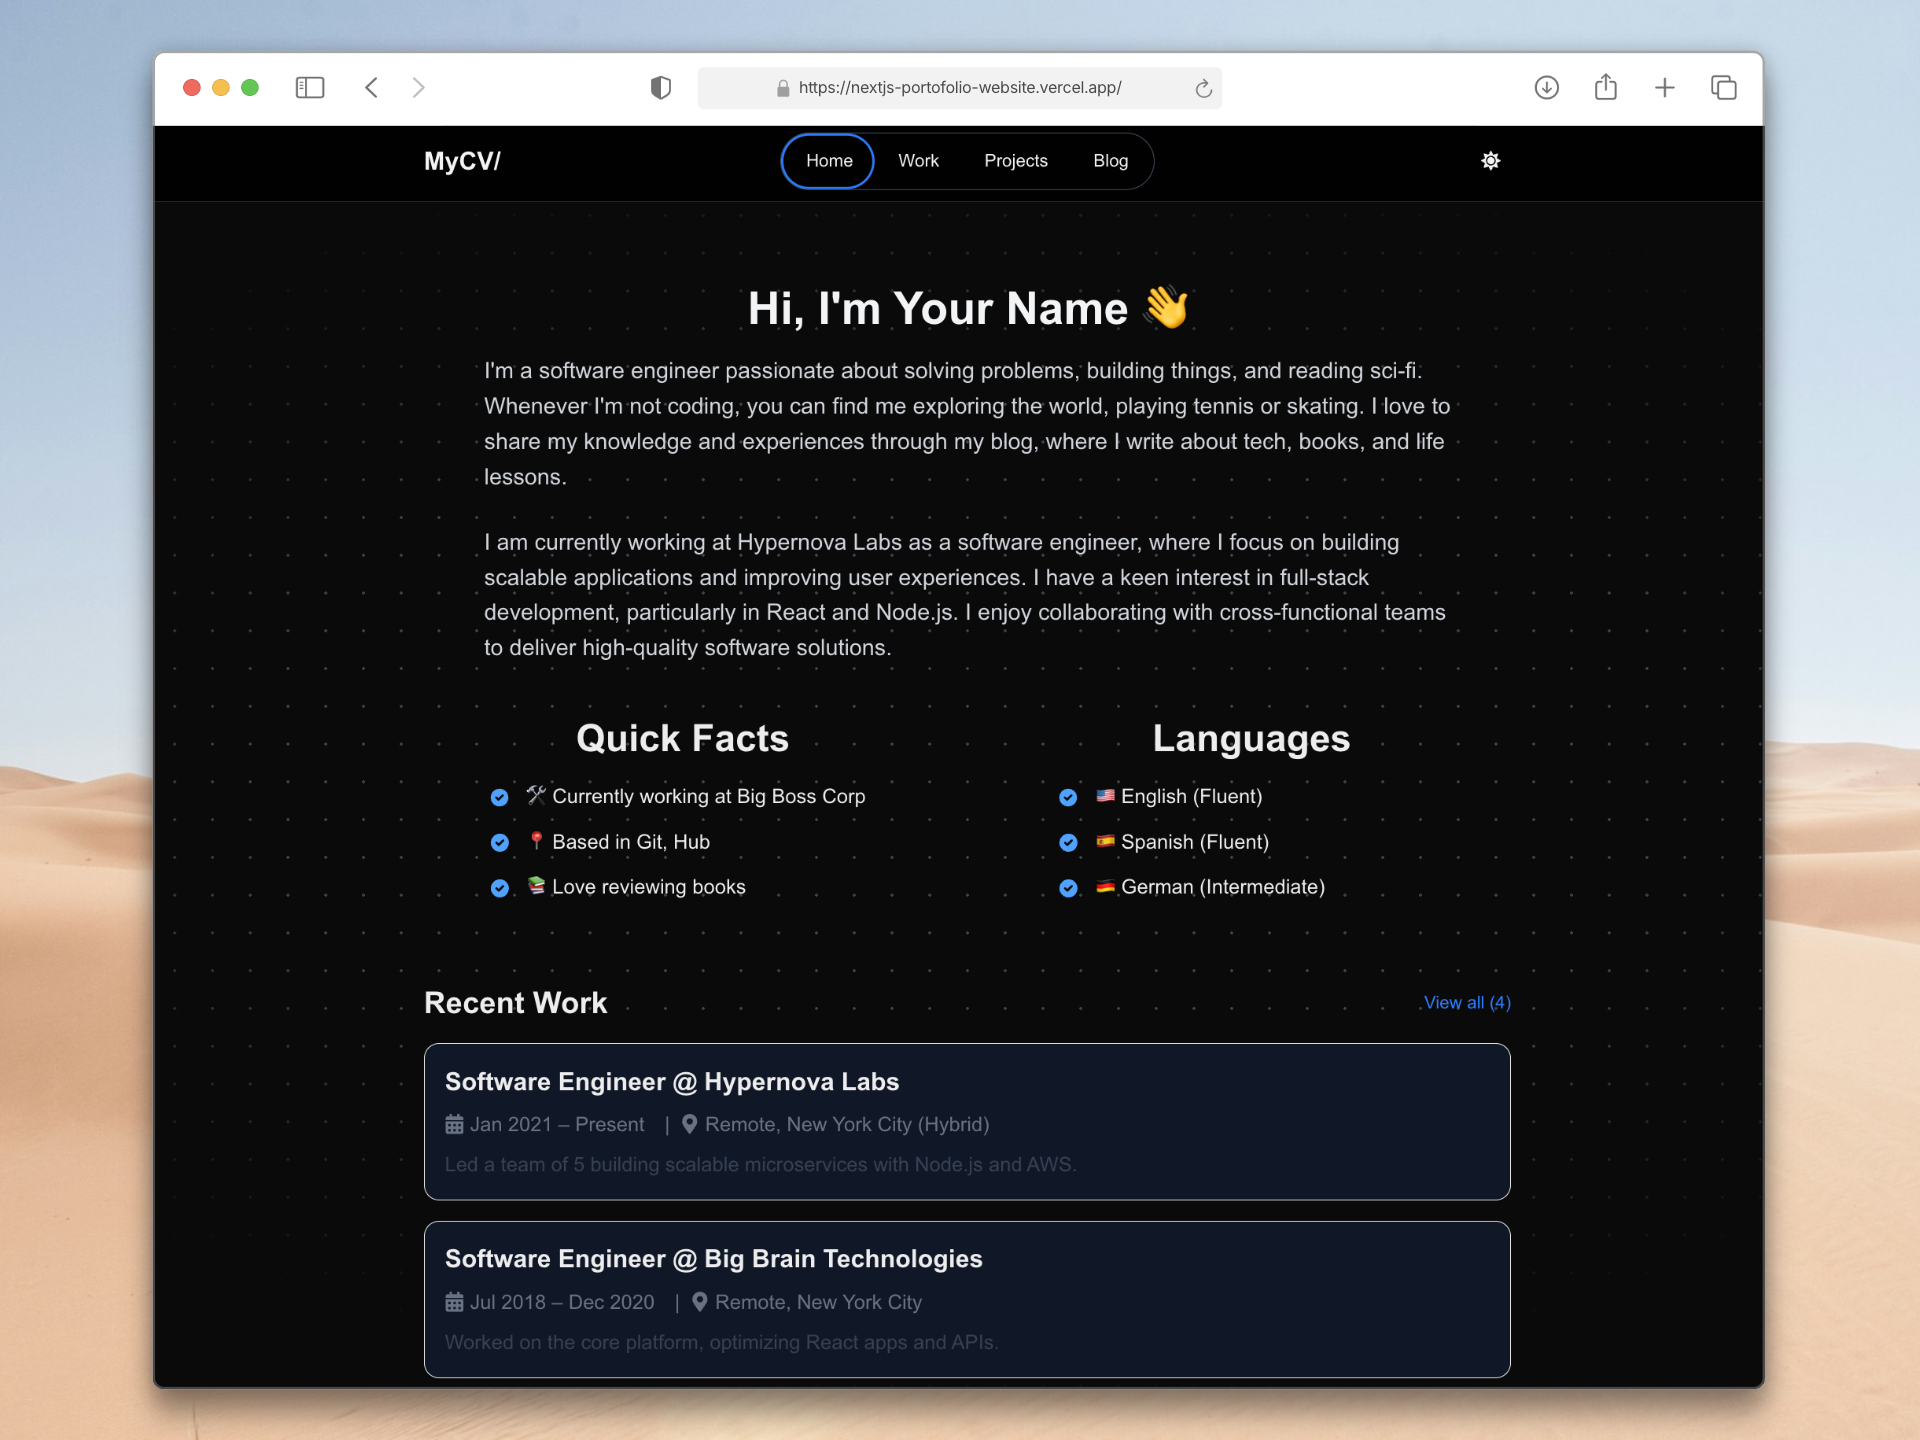
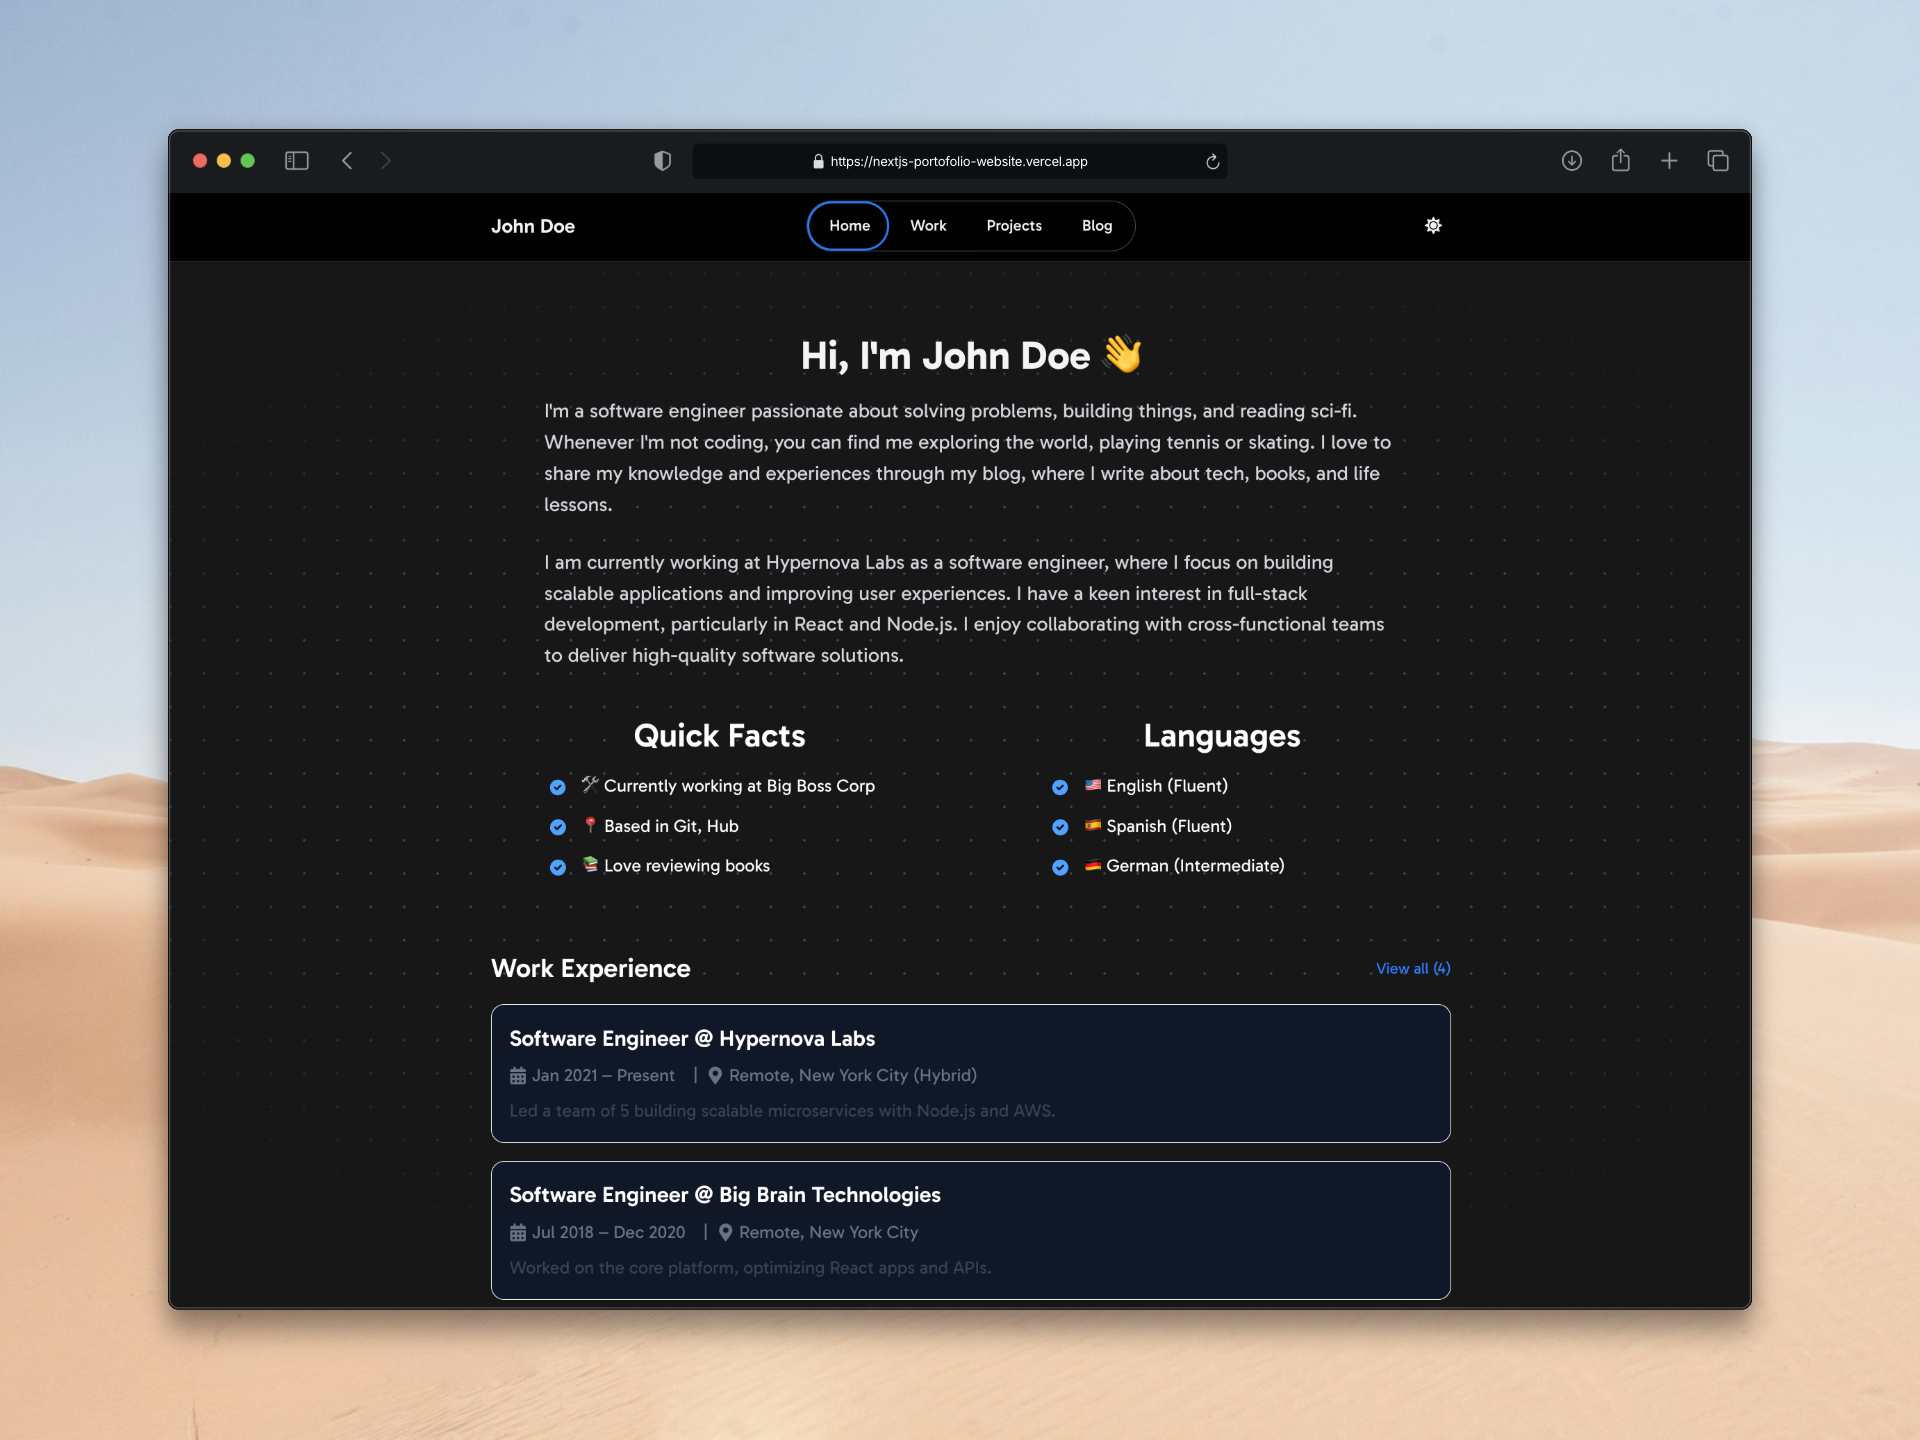
Fix website font & styling (#27)
* Add Gabarito font to the entire website

* Fix Footer & Header styling

* Fix styling for BlogPost

* Update README photos

* Bump app to version v7.4.0

Changed region(s): [[0.0625, 0.0312, 0.9375, 1.0], [0.25, 0.5, 0.4688, 0.625], [0.5312, 0.5, 0.7188, 0.625]]

diff --git a/src/app/layout.tsx b/src/app/layout.tsx
@@ -1,18 +1,13 @@
 import type {Metadata} from "next";
-import {Geist, Geist_Mono} from "next/font/google";
 import "./globals.css";
+import {Gabarito} from "next/font/google";
 import React, {ReactNode} from "react";
 import Header from "@/components/Header";
 import Footer from "@/components/Footer";
 
-const geistSans = Geist({
-    variable: "--font-geist-sans",
-    subsets: ["latin"],
-});
-
-const geistMono = Geist_Mono({
-    variable: "--font-geist-mono",
-    subsets: ["latin"],
+const gabarito = Gabarito({
+    variable: "--font-gabarito",
+    subsets: ["latin"]
 });
 
 export const metadata: Metadata = {
@@ -65,14 +60,13 @@ const themeInitScript = `
 
 export default function RootLayout({children}: { children: ReactNode }) {
     return (
-        <html lang="en" suppressHydrationWarning>
+        <html lang="en" className={`${gabarito.className} ${gabarito.variable}`} suppressHydrationWarning>
         <head>
             <script dangerouslySetInnerHTML={{__html: themeInitScript}}/>
             <title>My Developer Portfolio</title>
         </head>
         <body
-            className={`${geistSans.variable} ${geistMono.variable} antialiased flex 
-            flex-col min-h-screen transition-colors`}
+            className={`antialiased flex flex-col min-h-screen transition-colors ${gabarito.className} ${gabarito.variable}`}
         >
         {/* Dot Background Layer */}
         <div

diff --git a/src/components/Footer.tsx b/src/components/Footer.tsx
@@ -6,7 +6,10 @@ import {appVersion} from "@/lib/constants";
 export default function Footer() {
 
     return (
-        <footer className="border-t mt-10 py-6 text-center text-sm text-gray-500 px-4 border-gray-800">
+        <footer
+            className="mt-4 py-6 text-center text-sm text-gray-500 px-4 border-t dark:border-gray-800 border-gray-300"
+            id="footerPortfolio"
+        >
             <div className="flex justify-center gap-6 mb-2 text-lg">
                 <Link
                     href="/"
@@ -74,7 +77,7 @@ export default function Footer() {
                         v{appVersion}
                     </span>
                 </Link>
-                &nbsp; built by &nbsp;
+                &nbsp;built by&nbsp;
                 <Link href="https://github.com/alemoraru" rel="noopener noreferrer">
                     <span
                         className="font-semibold hover:text-blue-500 transition-colors duration-200"

diff --git a/src/components/BlogPost.tsx b/src/components/BlogPost.tsx
@@ -61,7 +61,9 @@ export default function BlogPost({slug, title, summary, date, tags}: BlogPostPro
                             <span
                                 key={tag}
                                 className="flex items-center text-xs bg-blue-100 text-blue-700 dark:bg-blue-900
-                                dark:text-blue-300 px-2 py-1 rounded-full group-hover:bg-blue-200 dark:hover:bg-blue-900 transition duration-300"
+                                dark:text-blue-300 px-2 py-1 rounded-full group-hover:bg-blue-200 dark:hover:bg-blue-900
+                                dark:group-hover:bg-blue-900
+                                transition duration-300"
                             >
                                 <FaTag className="w-3 h-3 mr-1"/>
                                 {tag}

diff --git a/src/components/Header.tsx b/src/components/Header.tsx
@@ -14,7 +14,7 @@ export default function Header() {
         <header
             id="headerPortfolio"
             className="sticky top-0 z-50 w-full bg-gray-50 text-black dark:bg-black dark:text-white transition-colors
-            border-b border-gray-800 dark:opacity-95"
+            border-b dark:border-gray-800 dark:opacity-95 border-gray-300 backdrop-blur-sm shadow-md"
         >
             <div
                 className="max-w-4xl mx-auto w-full px-4 py-4 transition-all duration-300 flex items-center justify-between">

diff --git a/README.md b/README.md
@@ -1,7 +1,7 @@
 # Next.js Personal Website Theme
 
-This is a custom personal website theme built using [Next.js](https://nextjs.org), bootstrapped with [
-`create-next-app`](https://nextjs.org/docs/app/api-reference/cli/create-next-app). It’s designed as a minimal,
+This is a custom personal website theme built using [Next.js](https://nextjs.org), bootstrapped with 
+[`create-next-app`](https://nextjs.org/docs/app/api-reference/cli/create-next-app). It’s designed as a minimal,
 performance-focused starting point for showcasing your **work**, **writing**, and **projects**.
 
 > **Note:** This theme is generally aimed at developers and designers who want to create a personal website
@@ -15,7 +15,7 @@ performance-focused starting point for showcasing your **work**, **writing**, an
 
 ![Screenshot Pages Desktop](public/homepage-screenshot-desktop.png)
 
-![Screenshot Pages Phone](public/pages-screenshots-phone.png)
+![Screenshot Pages Phone](public/pages-screenshots-mobile.png)
 
 ---
 
@@ -49,9 +49,6 @@ bun dev
 
 Once the server is running, open [http://localhost:3000](http://localhost:3000) in your browser to view the
 homepage.
-
-The project uses [`next/font`](https://nextjs.org/docs/app/building-your-application/optimizing/fonts) to
-load [Geist](https://vercel.com/font), a modern, legible typeface by Vercel.
 
 ---
 
@@ -87,7 +84,6 @@ Planned improvements and current/future features:
     - [X] Blog posts
 - [ ] 🖼 Add theme customization options:
     - [ ] Color palette
-    - [ ] Font options
     - [ ] Layout options
 
 ---
@@ -128,8 +124,6 @@ This project uses:
 - ⚛ [Next.js](https://nextjs.org) – React-based framework
 - 💅 [Tailwind CSS](https://tailwindcss.com) - Utility-first CSS framework
 - 🧱 [TypeScript](https://www.typescriptlang.org) – Static typing
-- 🔤 [next/font](https://nextjs.org/docs/app/building-your-application/optimizing/fonts) – Font optimization
-  with [Geist](https://vercel.com/font)
 
 ---
 
